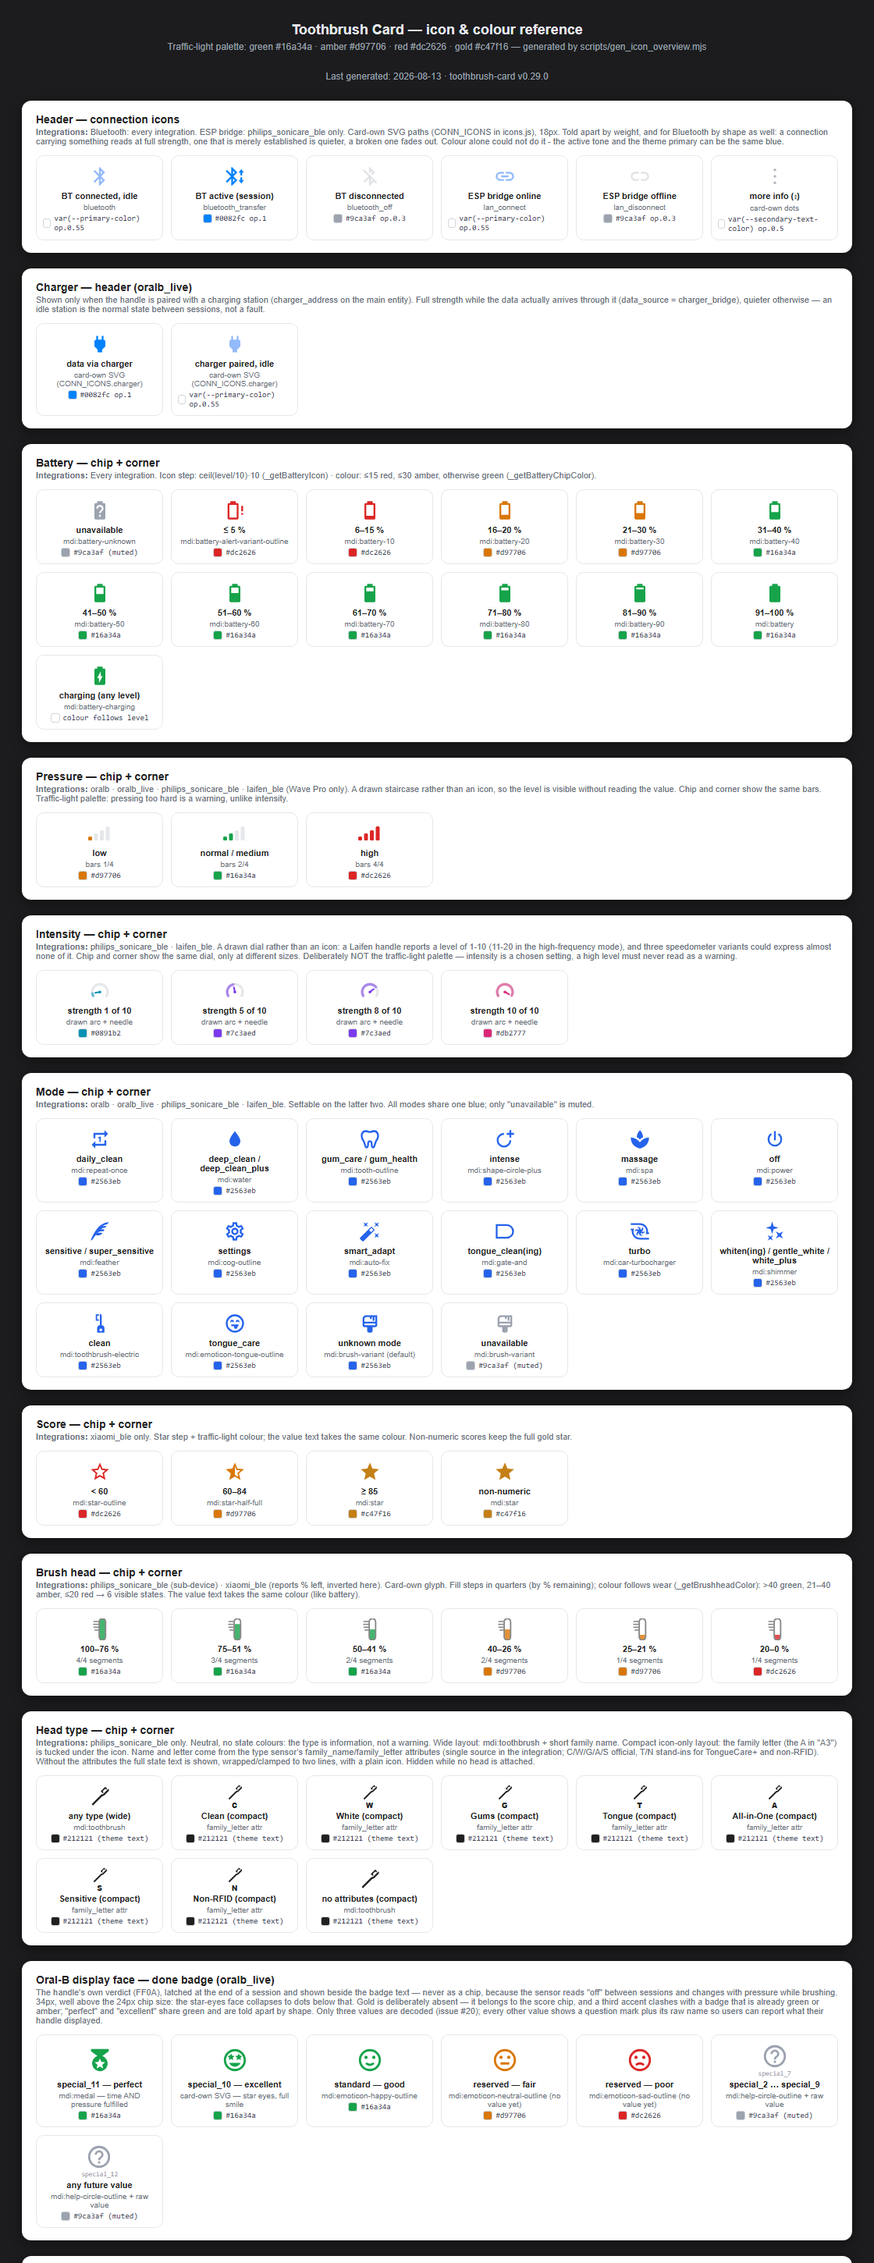
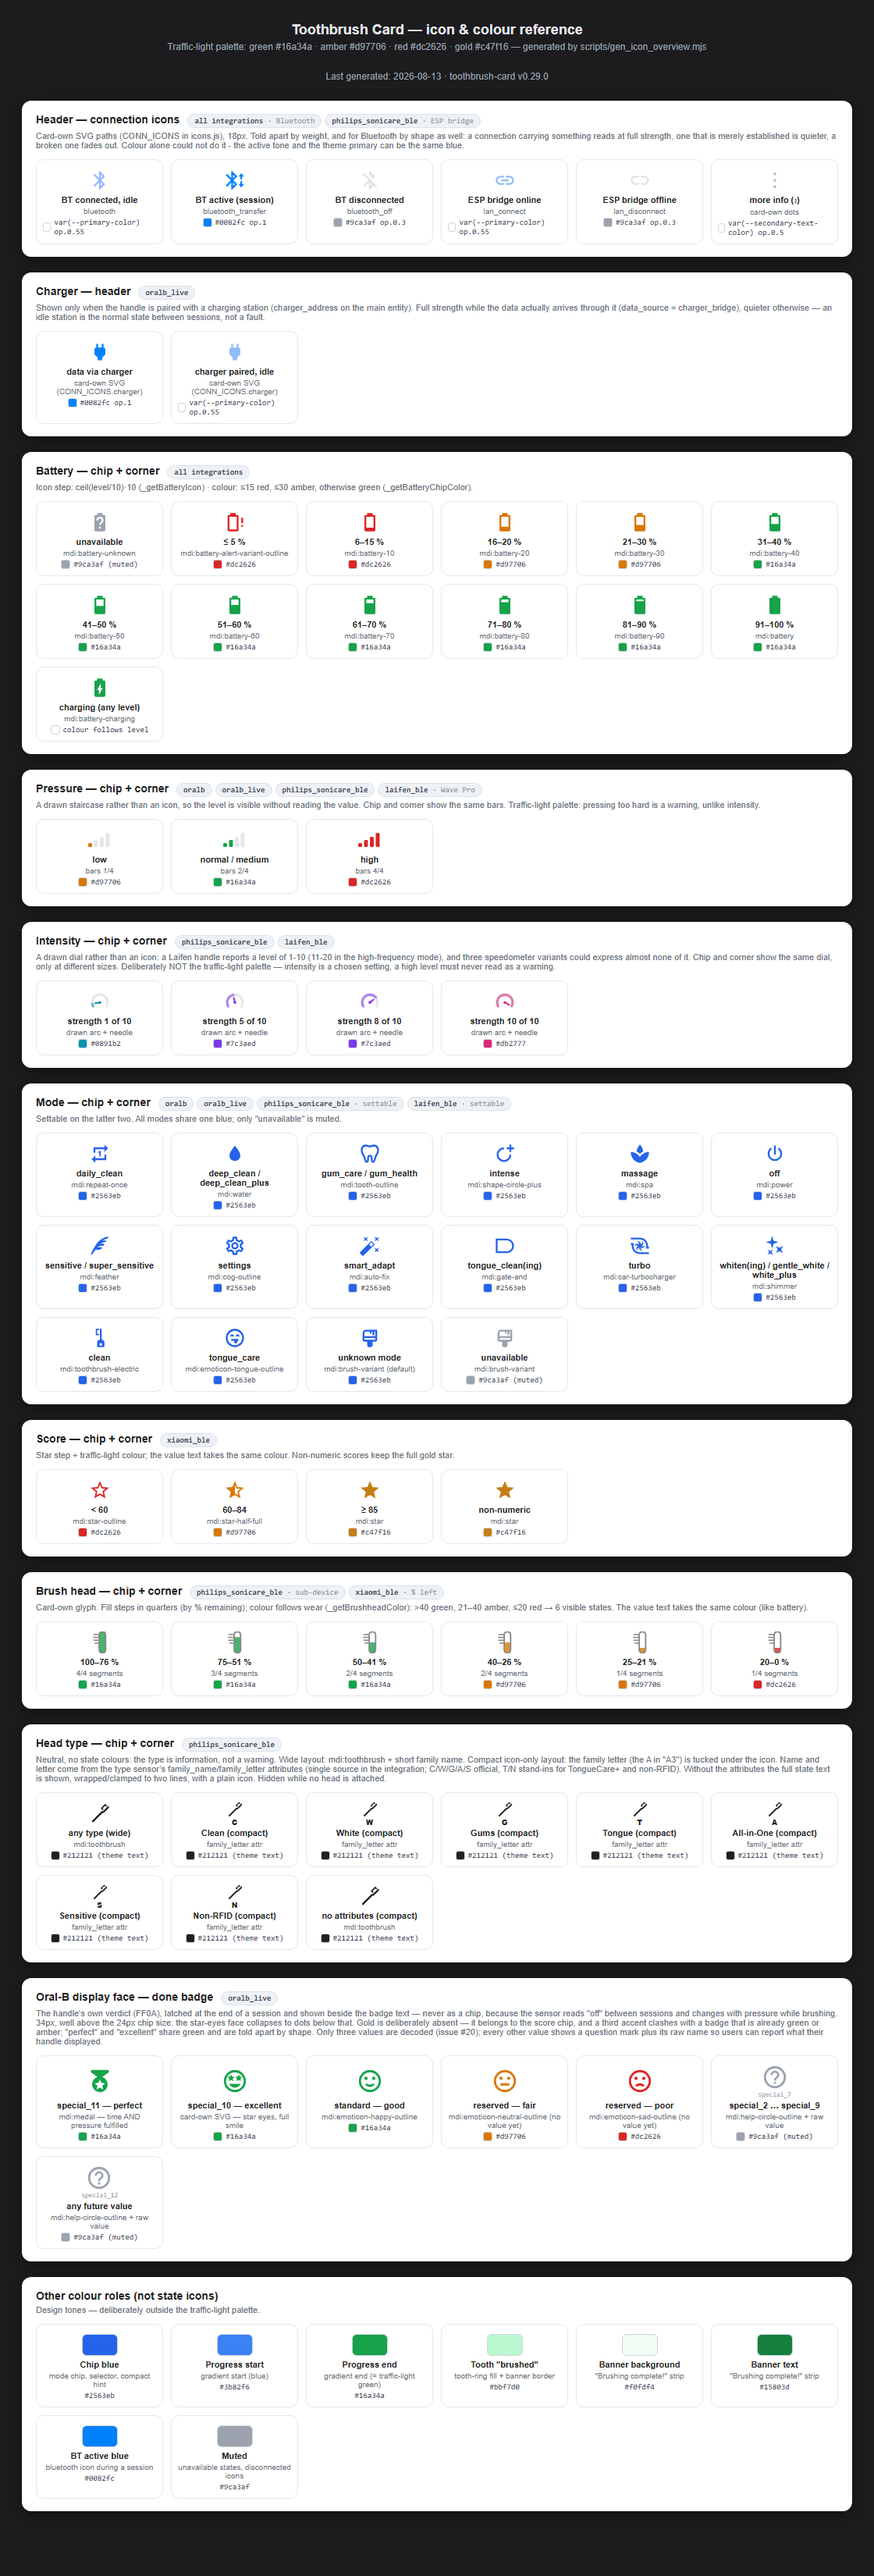
Put the integrations on a label beside each heading
They were a sentence at the front of each section's note, which is where
prose goes, not where a set of names goes. Someone scanning the reference
for "what does a Laifen show" had to read eleven paragraphs.

Each section heading now carries pills, one per integration, in the same
monospace the entity names use elsewhere on the page. A qualifier - Wave
Pro only, sub-device, settable - is set apart inside the pill so the pill
itself stays the bare integration name and the row still reads as a set.

The charger and display-face sections lose "(oralb_live)" from their
titles, since the pill says it now and saying it twice is worse than
either alone.

The screenshot height moved again, for the third time, so the note in
ICONS.md now says how to tell: the bottom strip of the PNG should be
nothing but background. 3300 is where the page currently ends.

Changed region(s): [[0.0, 0.0, 1.0, 1.0]]

diff --git a/docs/icon-overview.html b/docs/icon-overview.html
@@ -9,7 +9,14 @@
   .sub { text-align:center; color:#9ca3af; font-size:12px; margin:0 0 24px; }
   .section { background:#fff; border-radius:12px; padding:16px 18px; max-width:1060px;
              margin:0 auto 20px; box-shadow:0 4px 16px rgba(0,0,0,.4); }
-  h2 { font-size:14px; color:#212121; margin:0 0 2px; }
+  .head { display:flex; align-items:baseline; gap:10px; flex-wrap:wrap; margin:0 0 4px; }
+  h2 { font-size:14px; color:#212121; margin:0; }
+  .pills { display:flex; gap:4px; flex-wrap:wrap; }
+  .pill { font-size:10px; font-weight:600; font-family:ui-monospace,SFMono-Regular,Menlo,monospace;
+          padding:2px 8px; border-radius:999px; background:#eef1f5; color:#3f4756;
+          border:1px solid #dde3ea; white-space:nowrap; }
+  .pill i { font-style:normal; font-weight:500; color:#8b93a1; }
+  .pill i:before { content:" · "; }
   .note { font-size:11px; color:#6b7280; margin:0 0 12px; }
   .grid { display:grid; grid-template-columns:repeat(auto-fill,minmax(150px,1fr)); gap:10px; }
   .cell { border:1px solid #e5e7eb; border-radius:10px; padding:10px 8px 8px;
@@ -28,8 +35,11 @@
 <p class="sub">Last generated: 2026-08-13 · toothbrush-card v0.29.0</p>
 
   <div class="section">
-    <h2>Header — connection icons</h2>
-    <p class="note"><b>Integrations:</b> Bluetooth: every integration. ESP bridge: philips_sonicare_ble only. Card-own SVG paths (CONN_ICONS in icons.js), 18px. Told apart by weight, and for Bluetooth by shape as well: a connection carrying something reads at full strength, one that is merely established is quieter, a broken one fades out. Colour alone could not do it - the active tone and the theme primary can be the same blue.</p>
+    <div class="head">
+      <h2>Header — connection icons</h2>
+      <div class="pills"><span class="pill">all integrations<i>Bluetooth</i></span><span class="pill">philips_sonicare_ble<i>ESP bridge</i></span></div>
+    </div>
+    <p class="note">Card-own SVG paths (CONN_ICONS in icons.js), 18px. Told apart by weight, and for Bluetooth by shape as well: a connection carrying something reads at full strength, one that is merely established is quieter, a broken one fades out. Colour alone could not do it - the active tone and the theme primary can be the same blue.</p>
     <div class="grid">
     <div class="cell">
       <div class="ic"><svg width="28" height="28" viewBox="0 0 24 24" style="opacity:0.55"><path fill="#3b82f6" d="M17.71 7.71L12 2h-1v7.59L6.41 5 5 6.41 10.59 12 5 17.59 6.41 19 11 14.41V22h1l5.71-5.71-4.3-4.29 4.3-4.29zM13 5.83l1.88 1.88L13 9.59V5.83zm1.88 10.46L13 18.17v-3.76l1.88 1.88z"/></svg></div>
@@ -70,7 +80,10 @@
   </div>
 
   <div class="section">
-    <h2>Charger — header (oralb_live)</h2>
+    <div class="head">
+      <h2>Charger — header</h2>
+      <div class="pills"><span class="pill">oralb_live</span></div>
+    </div>
     <p class="note">Shown only when the handle is paired with a charging station (charger_address on the main entity). Full strength while the data actually arrives through it (data_source = charger_bridge), quieter otherwise — an idle station is the normal state between sessions, not a fault.</p>
     <div class="grid">
     <div class="cell">
@@ -88,8 +101,11 @@
   </div>
 
   <div class="section">
-    <h2>Battery — chip + corner</h2>
-    <p class="note"><b>Integrations:</b> Every integration. Icon step: ceil(level/10)·10 (_getBatteryIcon) · colour: ≤15 red, ≤30 amber, otherwise green (_getBatteryChipColor).</p>
+    <div class="head">
+      <h2>Battery — chip + corner</h2>
+      <div class="pills"><span class="pill">all integrations</span></div>
+    </div>
+    <p class="note">Icon step: ceil(level/10)·10 (_getBatteryIcon) · colour: ≤15 red, ≤30 amber, otherwise green (_getBatteryChipColor).</p>
     <div class="grid">
     <div class="cell">
       <div class="ic"><svg width="28" height="28" viewBox="0 0 24 24" style="opacity:1"><path fill="#9ca3af" d="M15.07,12.25L14.17,13.17C13.63,13.71 13.25,14.18 13.09,15H11.05C11.16,14.1 11.56,13.28 12.17,12.67L13.41,11.41C13.78,11.05 14,10.55 14,10C14,8.89 13.1,8 12,8A2,2 0 0,0 10,10H8A4,4 0 0,1 12,6A4,4 0 0,1 16,10C16,10.88 15.64,11.68 15.07,12.25M13,19H11V17H13M16.67,4H15V2H9V4H7.33A1.33,1.33 0 0,0 6,5.33V20.66C6,21.4 6.6,22 7.33,22H16.67C17.4,22 18,21.4 18,20.66V5.33C18,4.59 17.4,4 16.67,4Z"/></svg></div>
@@ -172,8 +188,11 @@
   </div>
 
   <div class="section">
-    <h2>Pressure — chip + corner</h2>
-    <p class="note"><b>Integrations:</b> oralb · oralb_live · philips_sonicare_ble · laifen_ble (Wave Pro only). A drawn staircase rather than an icon, so the level is visible without reading the value. Chip and corner show the same bars. Traffic-light palette: pressing too hard is a warning, unlike intensity.</p>
+    <div class="head">
+      <h2>Pressure — chip + corner</h2>
+      <div class="pills"><span class="pill">oralb</span><span class="pill">oralb_live</span><span class="pill">philips_sonicare_ble</span><span class="pill">laifen_ble<i>Wave Pro</i></span></div>
+    </div>
+    <p class="note">A drawn staircase rather than an icon, so the level is visible without reading the value. Chip and corner show the same bars. Traffic-light palette: pressing too hard is a warning, unlike intensity.</p>
     <div class="grid">
     <div class="cell">
       <div class="ic"><svg width="30" height="22" viewBox="0 0 30 22"><rect x="0" y="15" width="5" height="5" rx="1.5" fill="#d97706"/><rect x="7.5" y="11" width="5" height="9" rx="1.5" fill="#e5e7eb"/><rect x="15" y="7" width="5" height="13" rx="1.5" fill="#e5e7eb"/><rect x="22.5" y="2" width="5" height="18" rx="1.5" fill="#e5e7eb"/></svg></div>
@@ -196,8 +215,11 @@
   </div>
 
   <div class="section">
-    <h2>Intensity — chip + corner</h2>
-    <p class="note"><b>Integrations:</b> philips_sonicare_ble · laifen_ble. A drawn dial rather than an icon: a Laifen handle reports a level of 1-10 (11-20 in the high-frequency mode), and three speedometer variants could express almost none of it. Chip and corner show the same dial, only at different sizes. Deliberately NOT the traffic-light palette — intensity is a chosen setting, a high level must never read as a warning.</p>
+    <div class="head">
+      <h2>Intensity — chip + corner</h2>
+      <div class="pills"><span class="pill">philips_sonicare_ble</span><span class="pill">laifen_ble</span></div>
+    </div>
+    <p class="note">A drawn dial rather than an icon: a Laifen handle reports a level of 1-10 (11-20 in the high-frequency mode), and three speedometer variants could express almost none of it. Chip and corner show the same dial, only at different sizes. Deliberately NOT the traffic-light palette — intensity is a chosen setting, a high level must never read as a warning.</p>
     <div class="grid">
     <div class="cell">
       <div class="ic"><svg width="28" height="28" viewBox="0 0 24 24">
@@ -250,8 +272,11 @@
   </div>
 
   <div class="section">
-    <h2>Mode — chip + corner</h2>
-    <p class="note"><b>Integrations:</b> oralb · oralb_live · philips_sonicare_ble · laifen_ble. Settable on the latter two. All modes share one blue; only "unavailable" is muted.</p>
+    <div class="head">
+      <h2>Mode — chip + corner</h2>
+      <div class="pills"><span class="pill">oralb</span><span class="pill">oralb_live</span><span class="pill">philips_sonicare_ble<i>settable</i></span><span class="pill">laifen_ble<i>settable</i></span></div>
+    </div>
+    <p class="note">Settable on the latter two. All modes share one blue; only "unavailable" is muted.</p>
     <div class="grid">
     <div class="cell">
       <div class="ic"><svg width="28" height="28" viewBox="0 0 24 24" style="opacity:1"><path fill="#2563eb" d="M13,15V9H12L10,10V11H11.5V15M17,17H7V14L3,18L7,22V19H19V13H17M7,7H17V10L21,6L17,2V5H5V11H7V7Z"/></svg></div>
@@ -352,8 +377,11 @@
   </div>
 
   <div class="section">
-    <h2>Score — chip + corner</h2>
-    <p class="note"><b>Integrations:</b> xiaomi_ble only. Star step + traffic-light colour; the value text takes the same colour. Non-numeric scores keep the full gold star.</p>
+    <div class="head">
+      <h2>Score — chip + corner</h2>
+      <div class="pills"><span class="pill">xiaomi_ble</span></div>
+    </div>
+    <p class="note">Star step + traffic-light colour; the value text takes the same colour. Non-numeric scores keep the full gold star.</p>
     <div class="grid">
     <div class="cell">
       <div class="ic"><svg width="28" height="28" viewBox="0 0 24 24" style="opacity:1"><path fill="#dc2626" d="M12,15.39L8.24,17.66L9.23,13.38L5.91,10.5L10.29,10.13L12,6.09L13.71,10.13L18.09,10.5L14.77,13.38L15.76,17.66M22,9.24L14.81,8.63L12,2L9.19,8.63L2,9.24L7.45,13.97L5.82,21L12,17.27L18.18,21L16.54,13.97L22,9.24Z"/></svg></div>
@@ -382,8 +410,11 @@
   </div>
 
   <div class="section">
-    <h2>Brush head — chip + corner</h2>
-    <p class="note"><b>Integrations:</b> philips_sonicare_ble (sub-device) · xiaomi_ble (reports % left, inverted here). Card-own glyph. Fill steps in quarters (by % remaining); colour follows wear (_getBrushheadColor): &gt;40 green, 21–40 amber, ≤20 red → 6 visible states. The value text takes the same colour (like battery).</p>
+    <div class="head">
+      <h2>Brush head — chip + corner</h2>
+      <div class="pills"><span class="pill">philips_sonicare_ble<i>sub-device</i></span><span class="pill">xiaomi_ble<i>% left</i></span></div>
+    </div>
+    <p class="note">Card-own glyph. Fill steps in quarters (by % remaining); colour follows wear (_getBrushheadColor): &gt;40 green, 21–40 amber, ≤20 red → 6 visible states. The value text takes the same colour (like battery).</p>
     <div class="grid">
     <div class="cell">
       <div class="ic"><svg width="22" height="28" viewBox="0 0 24 30">
@@ -454,8 +485,11 @@
   </div>
 
   <div class="section">
-    <h2>Head type — chip + corner</h2>
-    <p class="note"><b>Integrations:</b> philips_sonicare_ble only. Neutral, no state colours: the type is information, not a warning. Wide layout: mdi:toothbrush + short family name. Compact icon-only layout: the family letter (the A in "A3") is tucked under the icon. Name and letter come from the type sensor’s family_name/family_letter attributes (single source in the integration; C/W/G/A/S official, T/N stand-ins for TongueCare+ and non-RFID). Without the attributes the full state text is shown, wrapped/clamped to two lines, with a plain icon. Hidden while no head is attached.</p>
+    <div class="head">
+      <h2>Head type — chip + corner</h2>
+      <div class="pills"><span class="pill">philips_sonicare_ble</span></div>
+    </div>
+    <p class="note">Neutral, no state colours: the type is information, not a warning. Wide layout: mdi:toothbrush + short family name. Compact icon-only layout: the family letter (the A in "A3") is tucked under the icon. Name and letter come from the type sensor’s family_name/family_letter attributes (single source in the integration; C/W/G/A/S official, T/N stand-ins for TongueCare+ and non-RFID). Without the attributes the full state text is shown, wrapped/clamped to two lines, with a plain icon. Hidden while no head is attached.</p>
     <div class="grid">
     <div class="cell">
       <div class="ic"><svg width="28" height="28" viewBox="0 0 24 24" style="opacity:1"><path fill="#212121" d="M12.91 6.43L15.03 8.55L16.09 7.5L15.03 6.43L17.86 3.6L18.92 4.66L20 3.6L17.86 1.5M3 20.57L4.43 22L14.5 11.9L16.63 11.19L21.4 6.43C22.18 5.65 22.18 4.38 21.4 3.6L15.55 9.44L13.43 10.15Z"/></svg></div>
@@ -514,7 +548,10 @@
   </div>
 
   <div class="section">
-    <h2>Oral-B display face — done badge (oralb_live)</h2>
+    <div class="head">
+      <h2>Oral-B display face — done badge</h2>
+      <div class="pills"><span class="pill">oralb_live</span></div>
+    </div>
     <p class="note">The handle's own verdict (FF0A), latched at the end of a session and shown beside the badge text — never as a chip, because the sensor reads "off" between sessions and changes with pressure while brushing. 34px, well above the 24px chip size: the star-eyes face collapses to dots below that. Gold is deliberately absent — it belongs to the score chip, and a third accent clashes with a badge that is already green or amber; "perfect" and "excellent" share green and are told apart by shape. Only three values are decoded (issue #20); every other value shows a question mark plus its raw name so users can report what their handle displayed.</p>
     <div class="grid">
     <div class="cell">
@@ -597,7 +634,10 @@
   </div>
 
   <div class="section">
-    <h2>Other colour roles (not state icons)</h2>
+    <div class="head">
+      <h2>Other colour roles (not state icons)</h2>
+      
+    </div>
     <p class="note">Design tones — deliberately outside the traffic-light palette.</p>
     <div class="grid">
     <div class="cell">

diff --git a/docs/ICONS.md b/docs/ICONS.md
@@ -18,8 +18,9 @@ readings look the same in the chip and in a corner marker, only at different
 sizes, so where a reading is placed never changes what it looks like.
 
 Also worth knowing: the screenshot has to be tall enough for the whole page.
-The window height in the command below grows with the reference; if the last
-section is clipped, that is the number to raise.
+Chrome captures exactly the window, so the height below grows with the
+reference and a clipped last section means that number needs raising. The
+quick check is whether the bottom strip of the PNG is nothing but background.
 
 All icons stay readable in the compact icon-only layout (card width ≤ 350 px,
 where chip labels and values are hidden): the icon shape and colour alone
@@ -111,7 +112,7 @@ The overview is generated from `@mdi/js` and the card's own SVG paths:
 ```sh
 node scripts/gen_icon_overview.mjs
 chromium --headless --screenshot=docs/icon-overview.png \
-  --window-size=1120,2900 --hide-scrollbars docs/icon-overview.html
+  --window-size=1120,3300 --hide-scrollbars docs/icon-overview.html
 ```
 
 The state conditions and palette in the script mirror the card logic in
